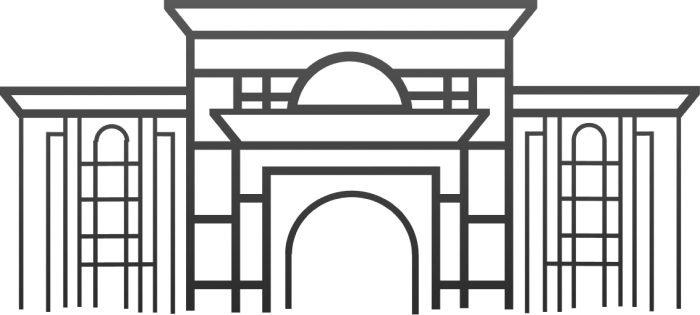
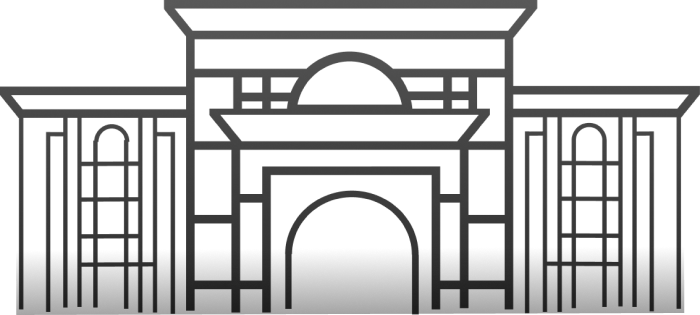
refactor: Update font URLs and paths for Gilroy and LemonMilk fonts

Changed region(s): [[0.0, 0.8286, 0.99, 1.0]]

diff --git a/scss/globals/_home.scss b/scss/globals/_home.scss
@@ -1,9 +1,5 @@
 .section-img {
-  background-image: url("https://github.com/theajmalrazaq/mlsacfd/raw/main/Images/overlay.svg");
   height: 100vh;
-  background-repeat: no-repeat;
-  background-position: center;
-  background-size: cover;
   gap: 20px;
   h1 {
     margin-bottom: 0;
@@ -20,6 +16,7 @@
     -webkit-background-clip: text;
     text-fill-color: transparent;
     -webkit-text-fill-color: transparent;
+    z-index: 99;
   }
   h1:hover {
     -webkit-animation: text-flicker-out-glow 2.5s ease-in both;
@@ -29,6 +26,7 @@
   h5 {
     font-family: var(--font-pri);
     letter-spacing: 3px;
+    z-index: 99;
   }
 }
 .info_sec {
@@ -40,8 +38,6 @@
 }
 .cfd-img {
   position: absolute;
-  bottom: 0;
-  opacity: 0.7;
 }
 /* ----------------------------------------------
  * Generated by Animista on 2024-6-24 3:36:47
@@ -285,6 +281,7 @@
   backdrop-filter: blur(10px);
   font-family: lemonMilk;
   font-size: 12px;
+  border: 2px solid var(--color-tras);
   padding: 0.8rem 2rem;
   font-weight: 999;
   border-radius: 9px;

diff --git a/style.css b/style.css
@@ -56,11 +56,7 @@ body {
 }
 
 .section-img {
-  background-image: url("https://github.com/theajmalrazaq/mlsacfd/raw/main/Images/overlay.svg");
   height: 100vh;
-  background-repeat: no-repeat;
-  background-position: center;
-  background-size: cover;
   gap: 20px;
 }
 .section-img h1 {
@@ -73,6 +69,7 @@ body {
   -webkit-background-clip: text;
   text-fill-color: transparent;
   -webkit-text-fill-color: transparent;
+  z-index: 99;
 }
 .section-img h1:hover {
   animation: text-flicker-out-glow 2.5s ease-in both;
@@ -81,6 +78,7 @@ body {
 .section-img h5 {
   font-family: var(--font-pri);
   letter-spacing: 3px;
+  z-index: 99;
 }
 
 .info_sec {
@@ -94,8 +92,6 @@ body {
 
 .cfd-img {
   position: absolute;
-  bottom: 0;
-  opacity: 0.7;
 }
 
 /* ----------------------------------------------
@@ -229,6 +225,7 @@ body {
           backdrop-filter: blur(10px);
   font-family: lemonMilk;
   font-size: 12px;
+  border: 2px solid var(--color-tras);
   padding: 0.8rem 2rem;
   font-weight: 999;
   border-radius: 9px;

diff --git a/index.html b/index.html
@@ -59,9 +59,11 @@
     <div
       class="section section-img is-flex is-flex-direction-column is-align-items-center mt-6"
     >
+      <img src="Images/overlay.svg" alt="" class="overlay" />
+      <img src="Images/cfd.png" class="cfd-img" />
       <div class="is-flex">
         <figure class="image is-128x128">
-          <img src="Images/logo.svg" alt="" />
+          <img src="Images/logo.svg" alt="" style="z-index: 99" />
         </figure>
       </div>
 
@@ -90,7 +92,6 @@
 
         <button class="button is-link btn">Contact Us</button>
       </div>
-      <img src="Images/cfd.png" class="cfd-img" />
     </div>
   </body>
 </html>
